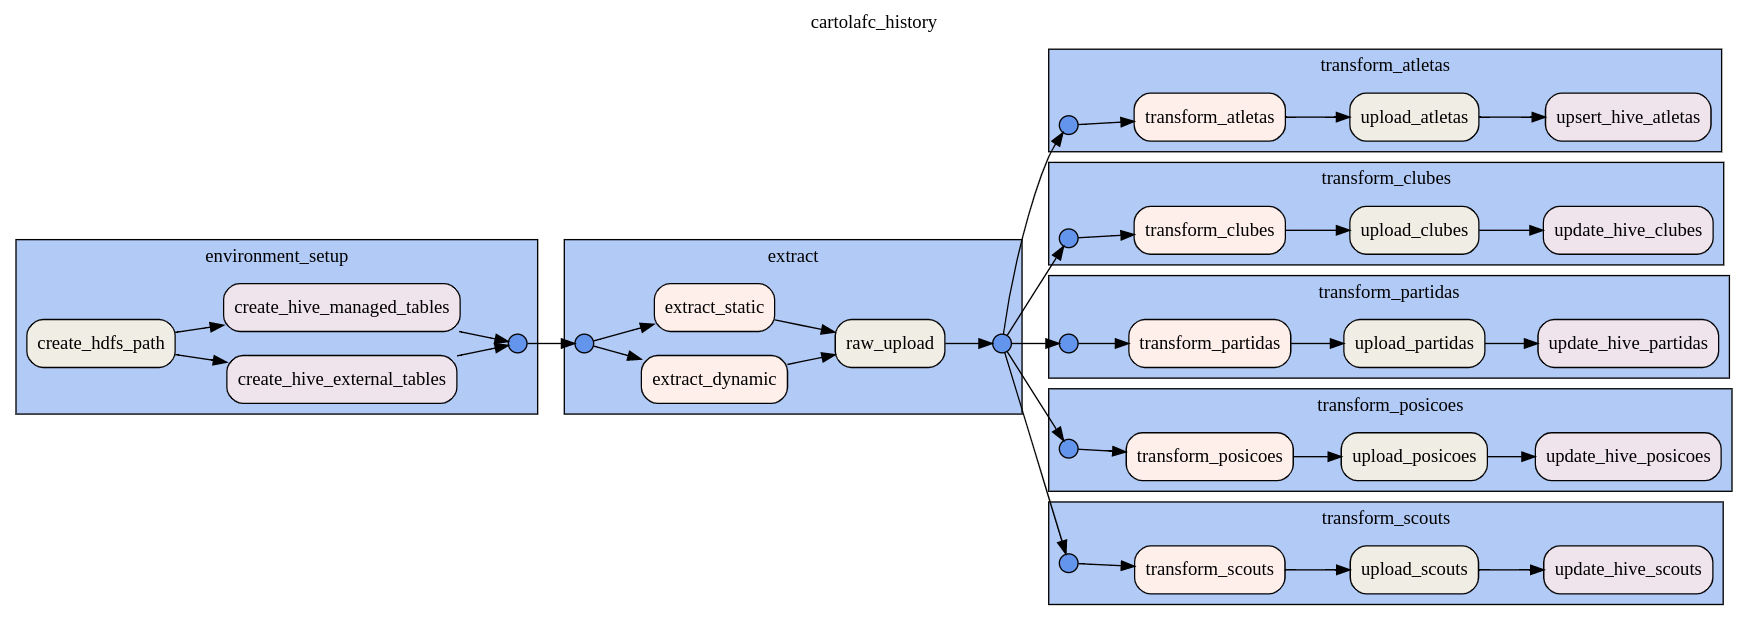
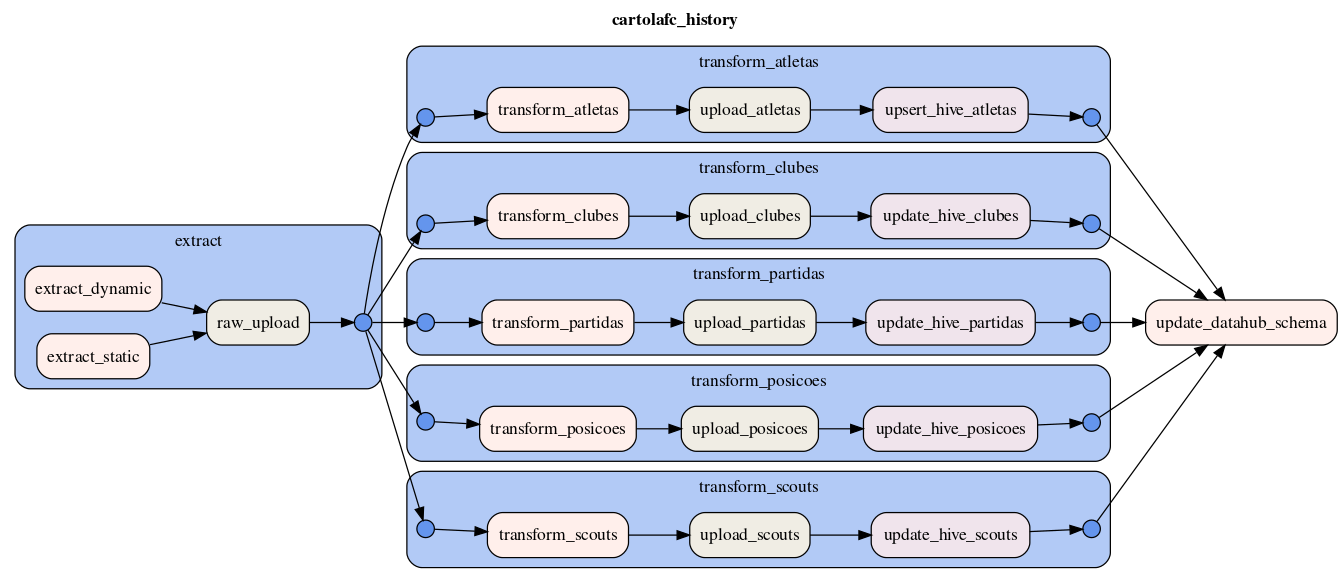
Update dag diagram

diff --git a/README.md b/README.md
@@ -54,13 +54,13 @@ After a few moments of the start and healthcheck of services, the web interfaces
 
 ## Miscellaneous
 
-The current data warehouse schema used on Hive is presented next. It mirror the trusted layer build on hadoop with external tables (this is the `trusted` schema) to make some ELT to construct the managed tables in the `refined` schema.
+The current data warehouse schema used on Hive is presented next. It mirrors the trusted layer build on hadoop with external tables (this is the `trusted` schema) to make some ELT to construct the managed tables in the `refined` schema.
 
 <p align="center">
 <img alt="Database schema" src="./docs/schema.png"/>
 </p>
 
-The Airflow DAG includes tasks of environment setup in hive and hdfs, file extraction from github API and a transform/load groups for each table of the hive schema. The DAG diagram is presented next:
+The Airflow DAG includes file extraction from github API and transform/load groups for each table of the data warehouse schema. The DAG diagram is presented next:
 
 <p align="center">
 <img alt="Airflow DAG" src="./docs/dag.png"/>
